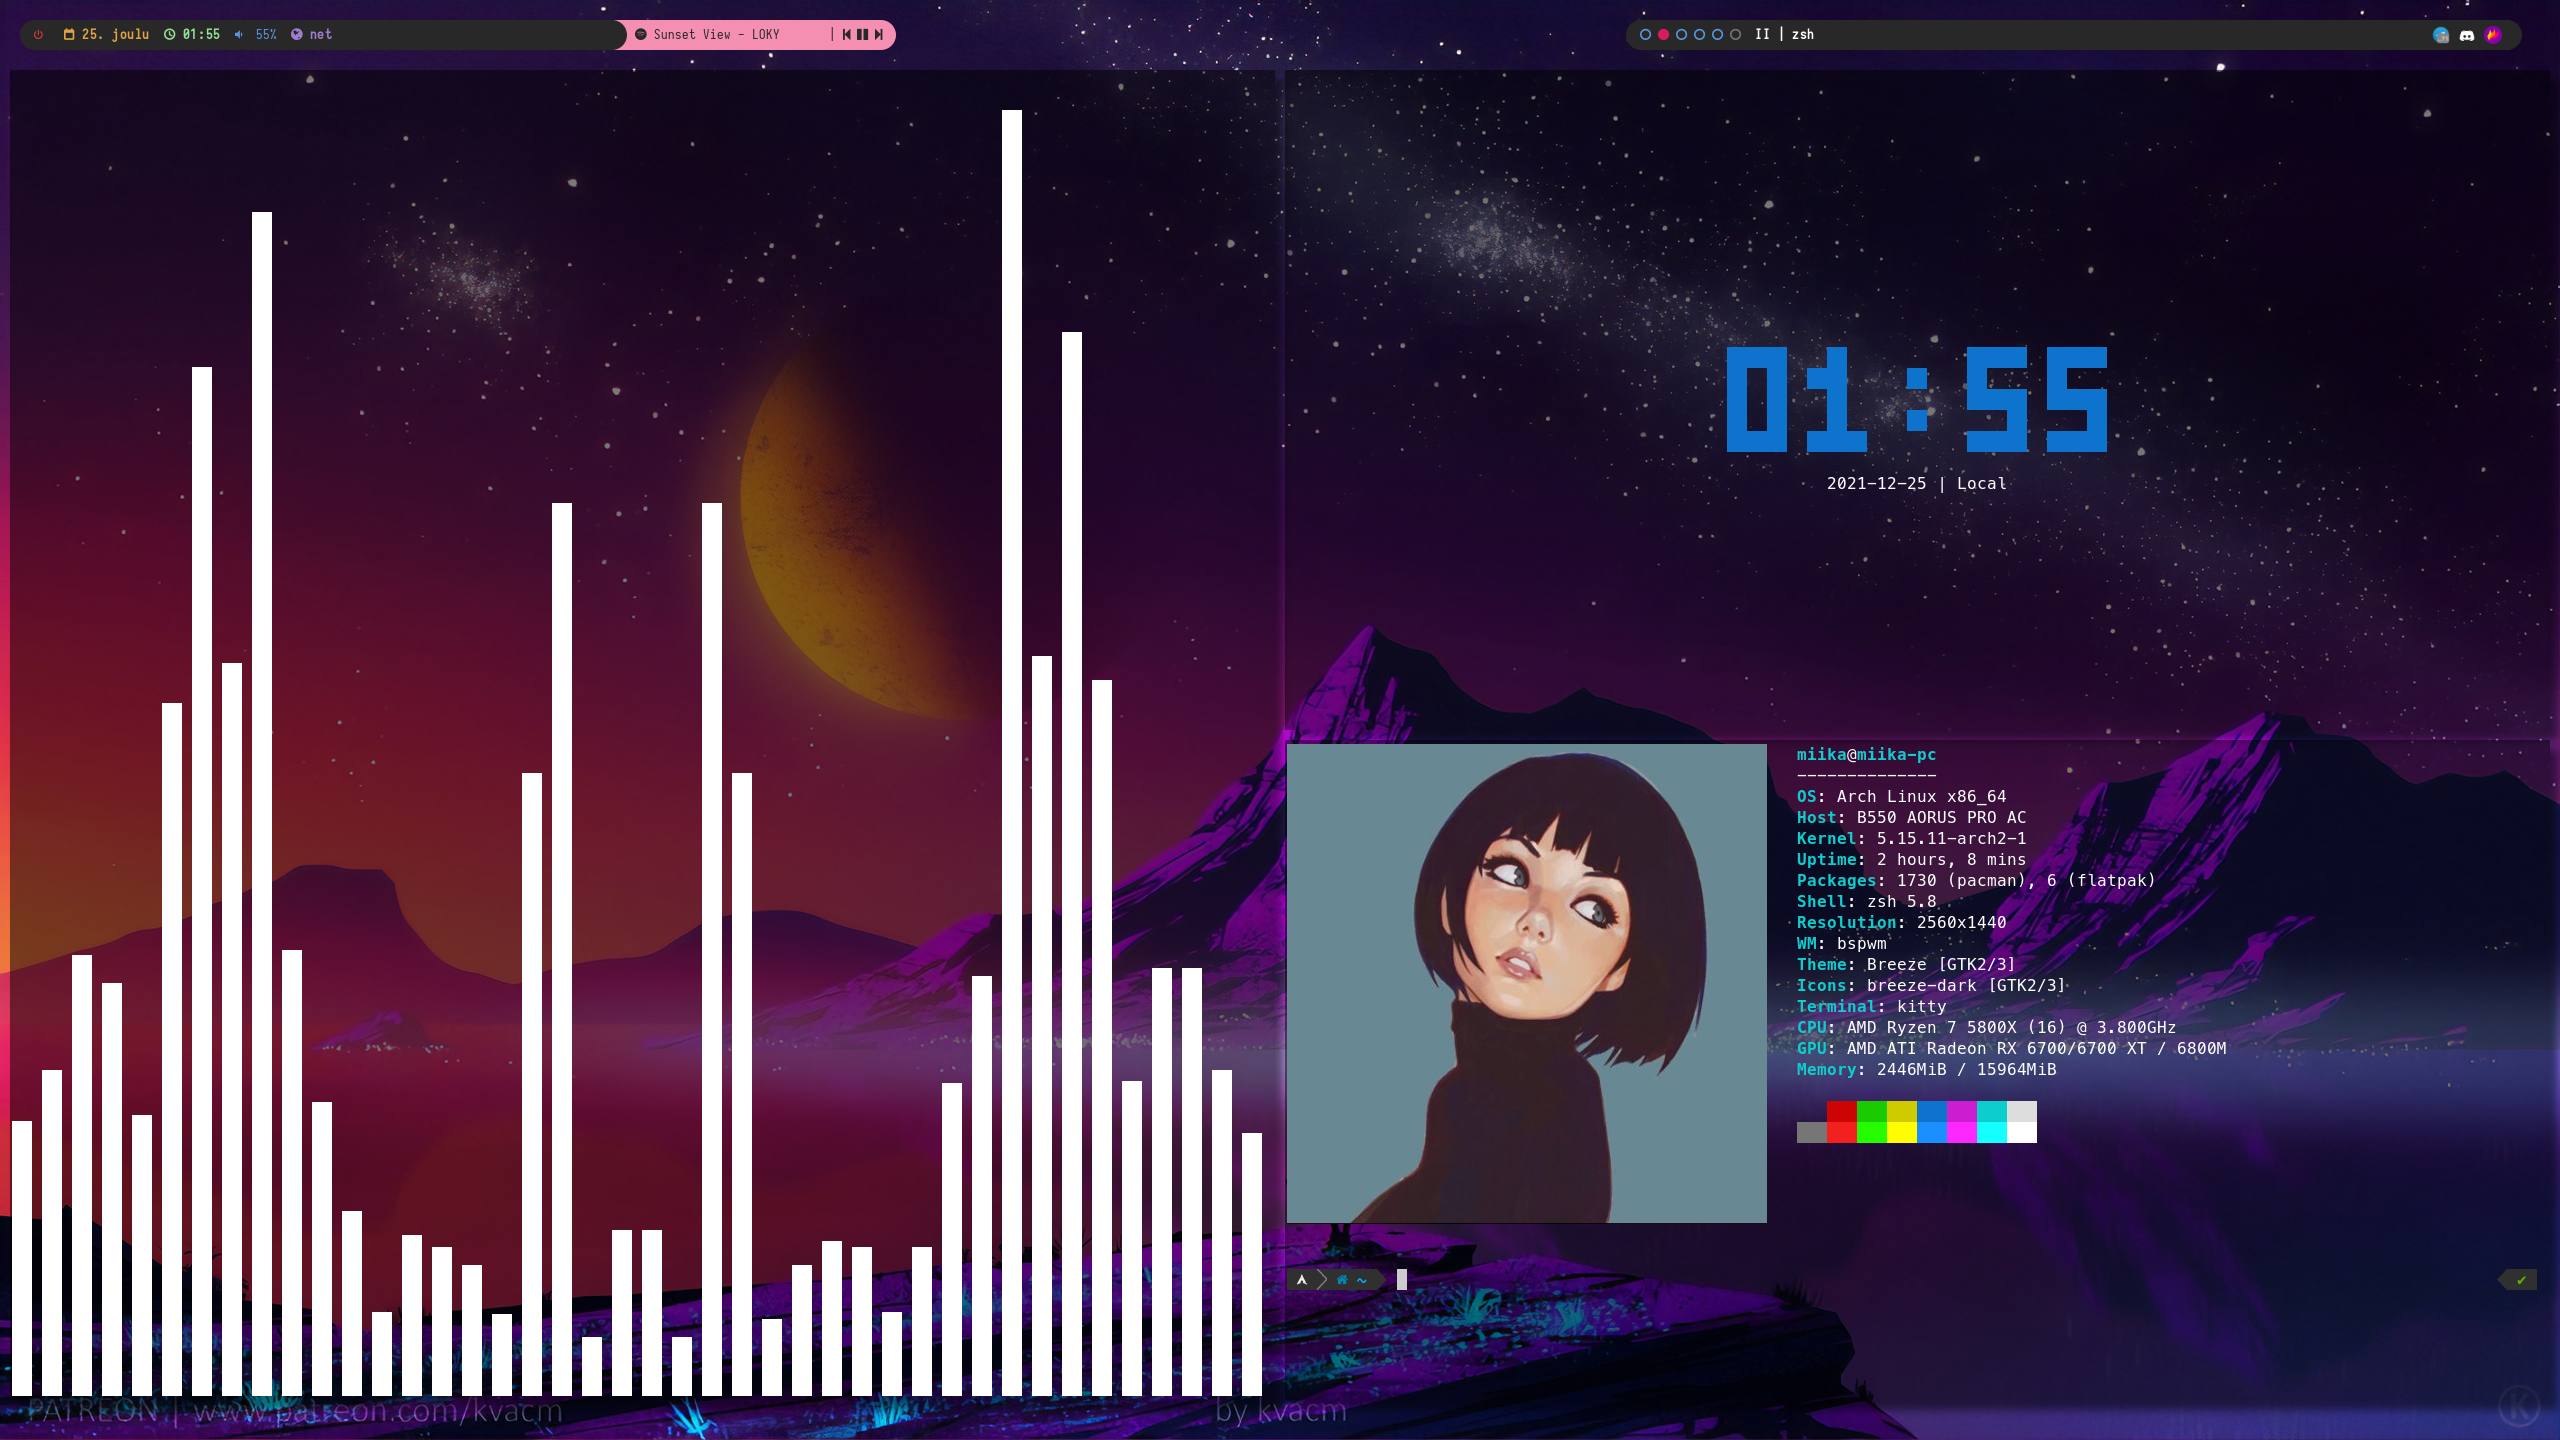
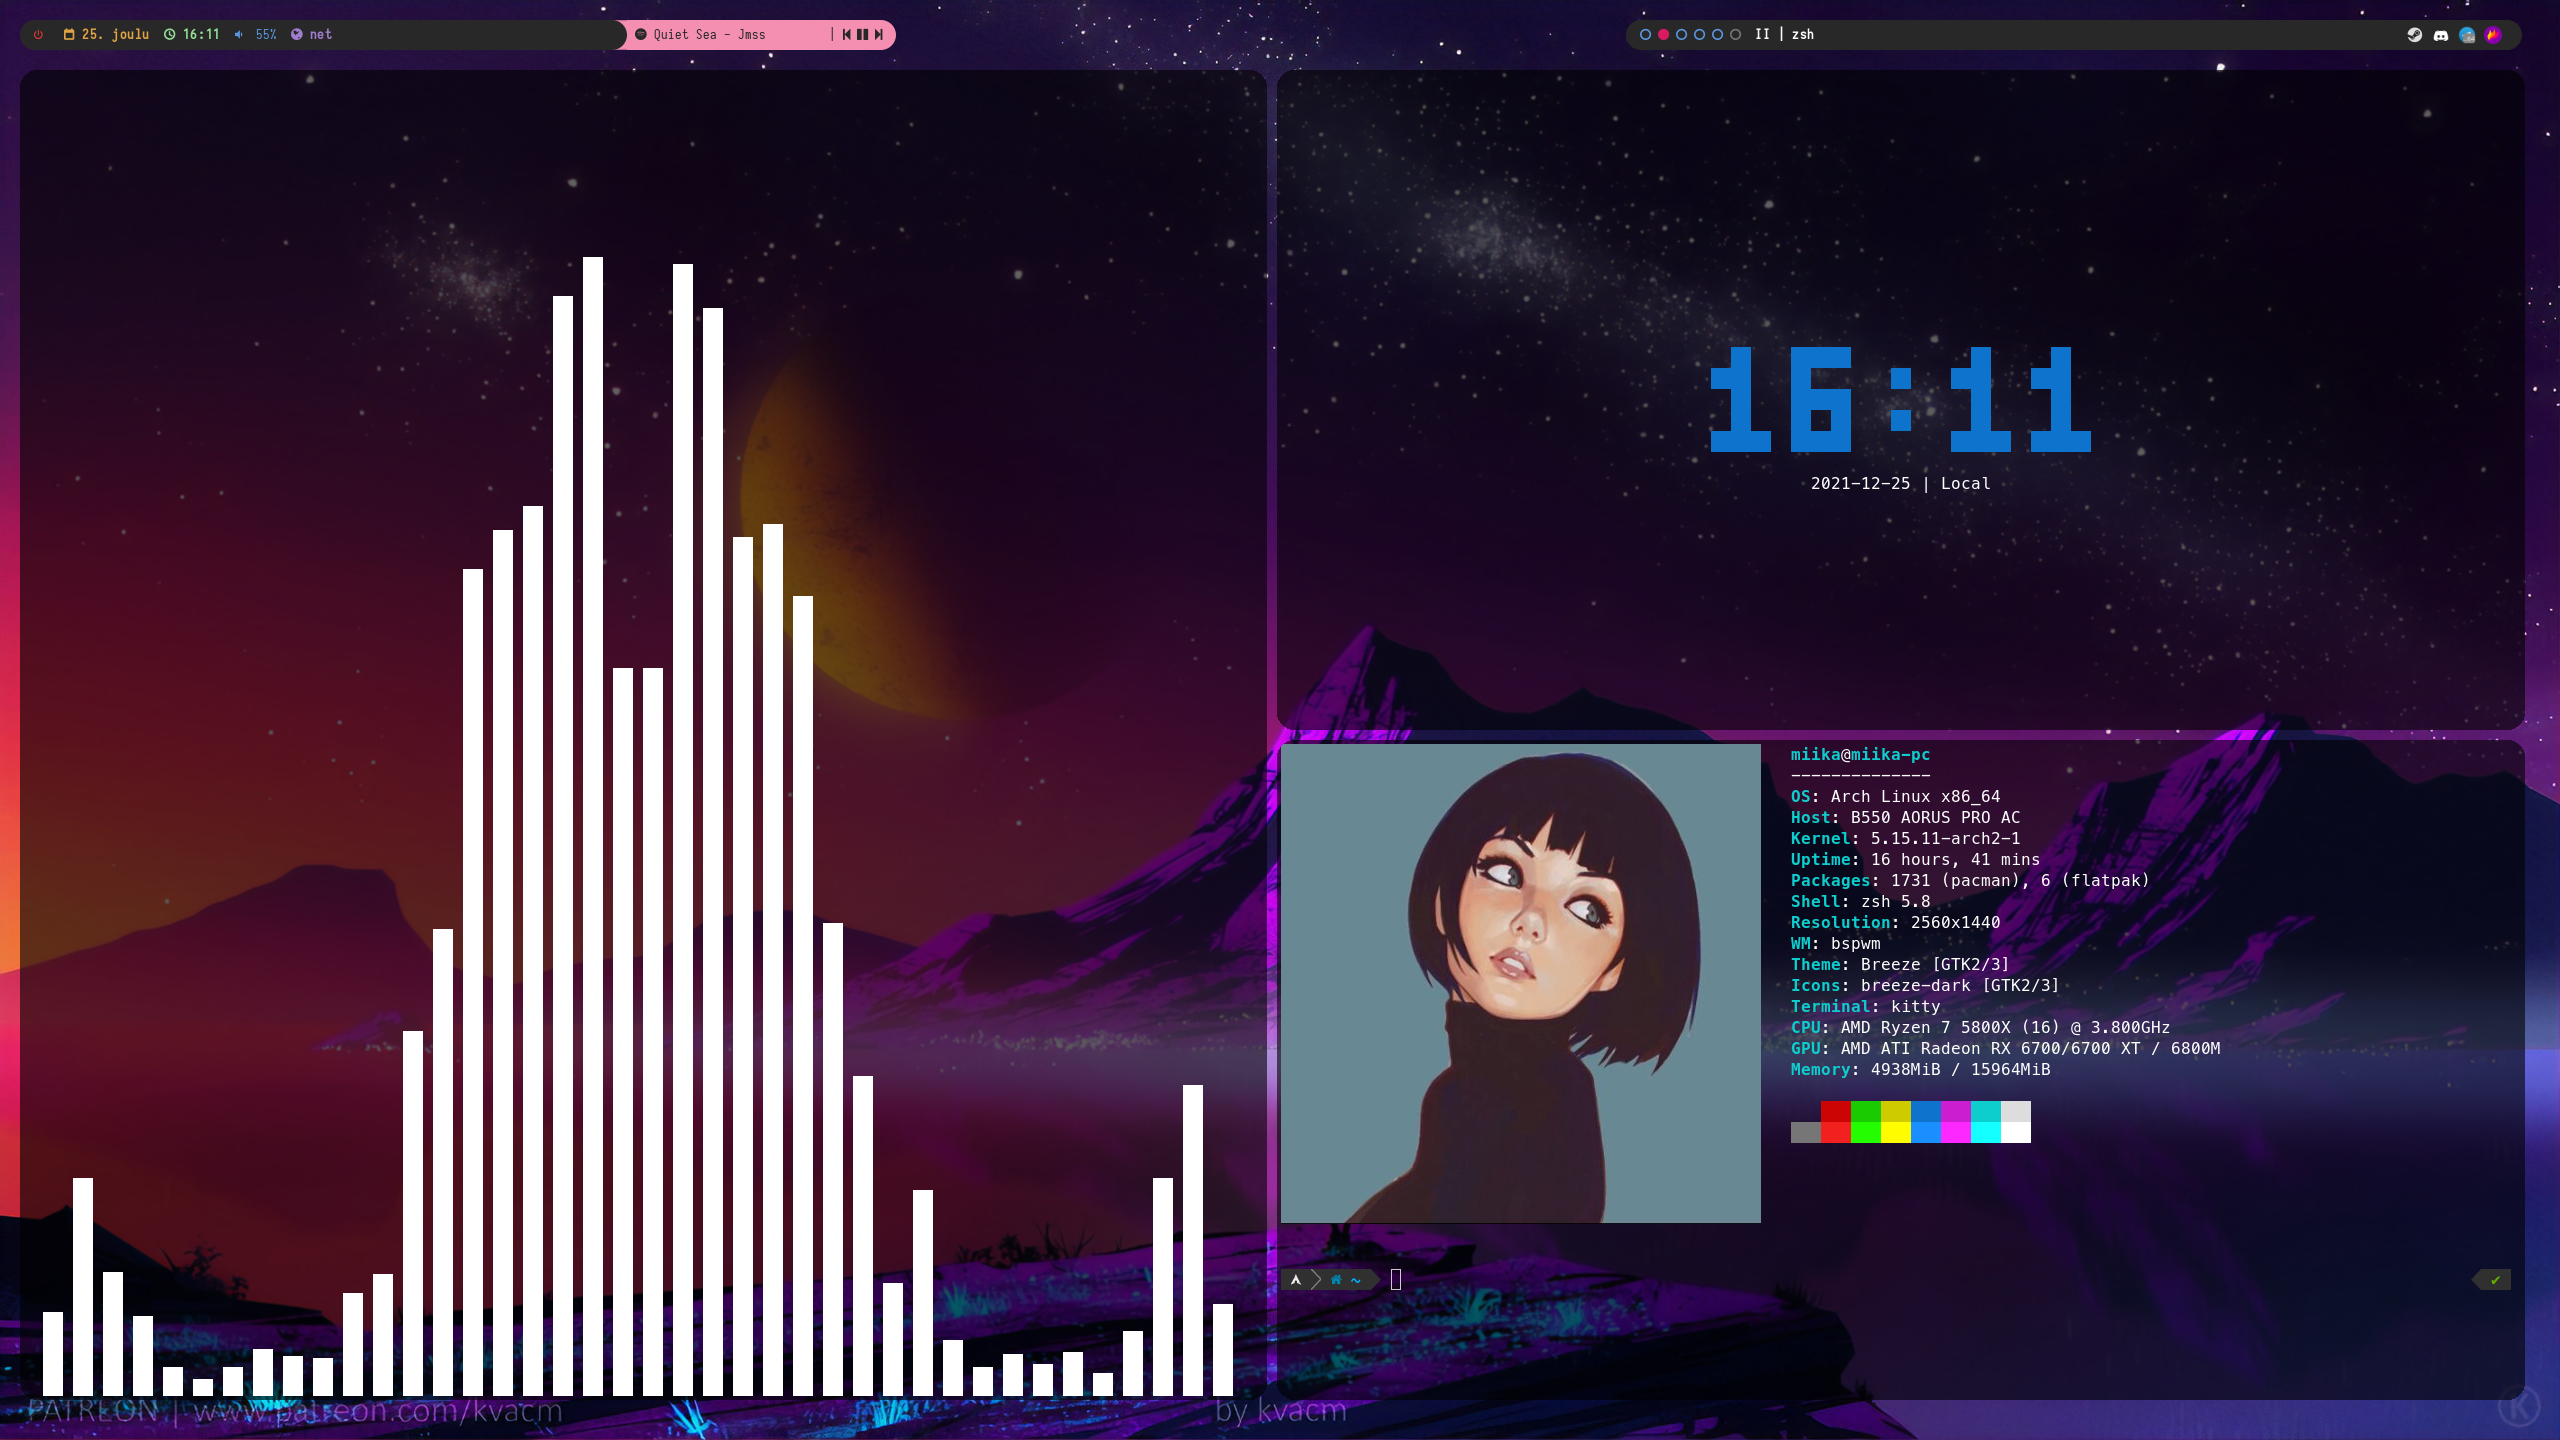
some modifications

diff --git a/README.md b/README.md
@@ -6,6 +6,7 @@ alt + enter for terminal
 
 My bspwm settings
 ![Horizon](/desktop/currentsetup.png)
+![Horizon](/desktop/currentsetup2.png)
 Im using
 	Arch Linux
 
